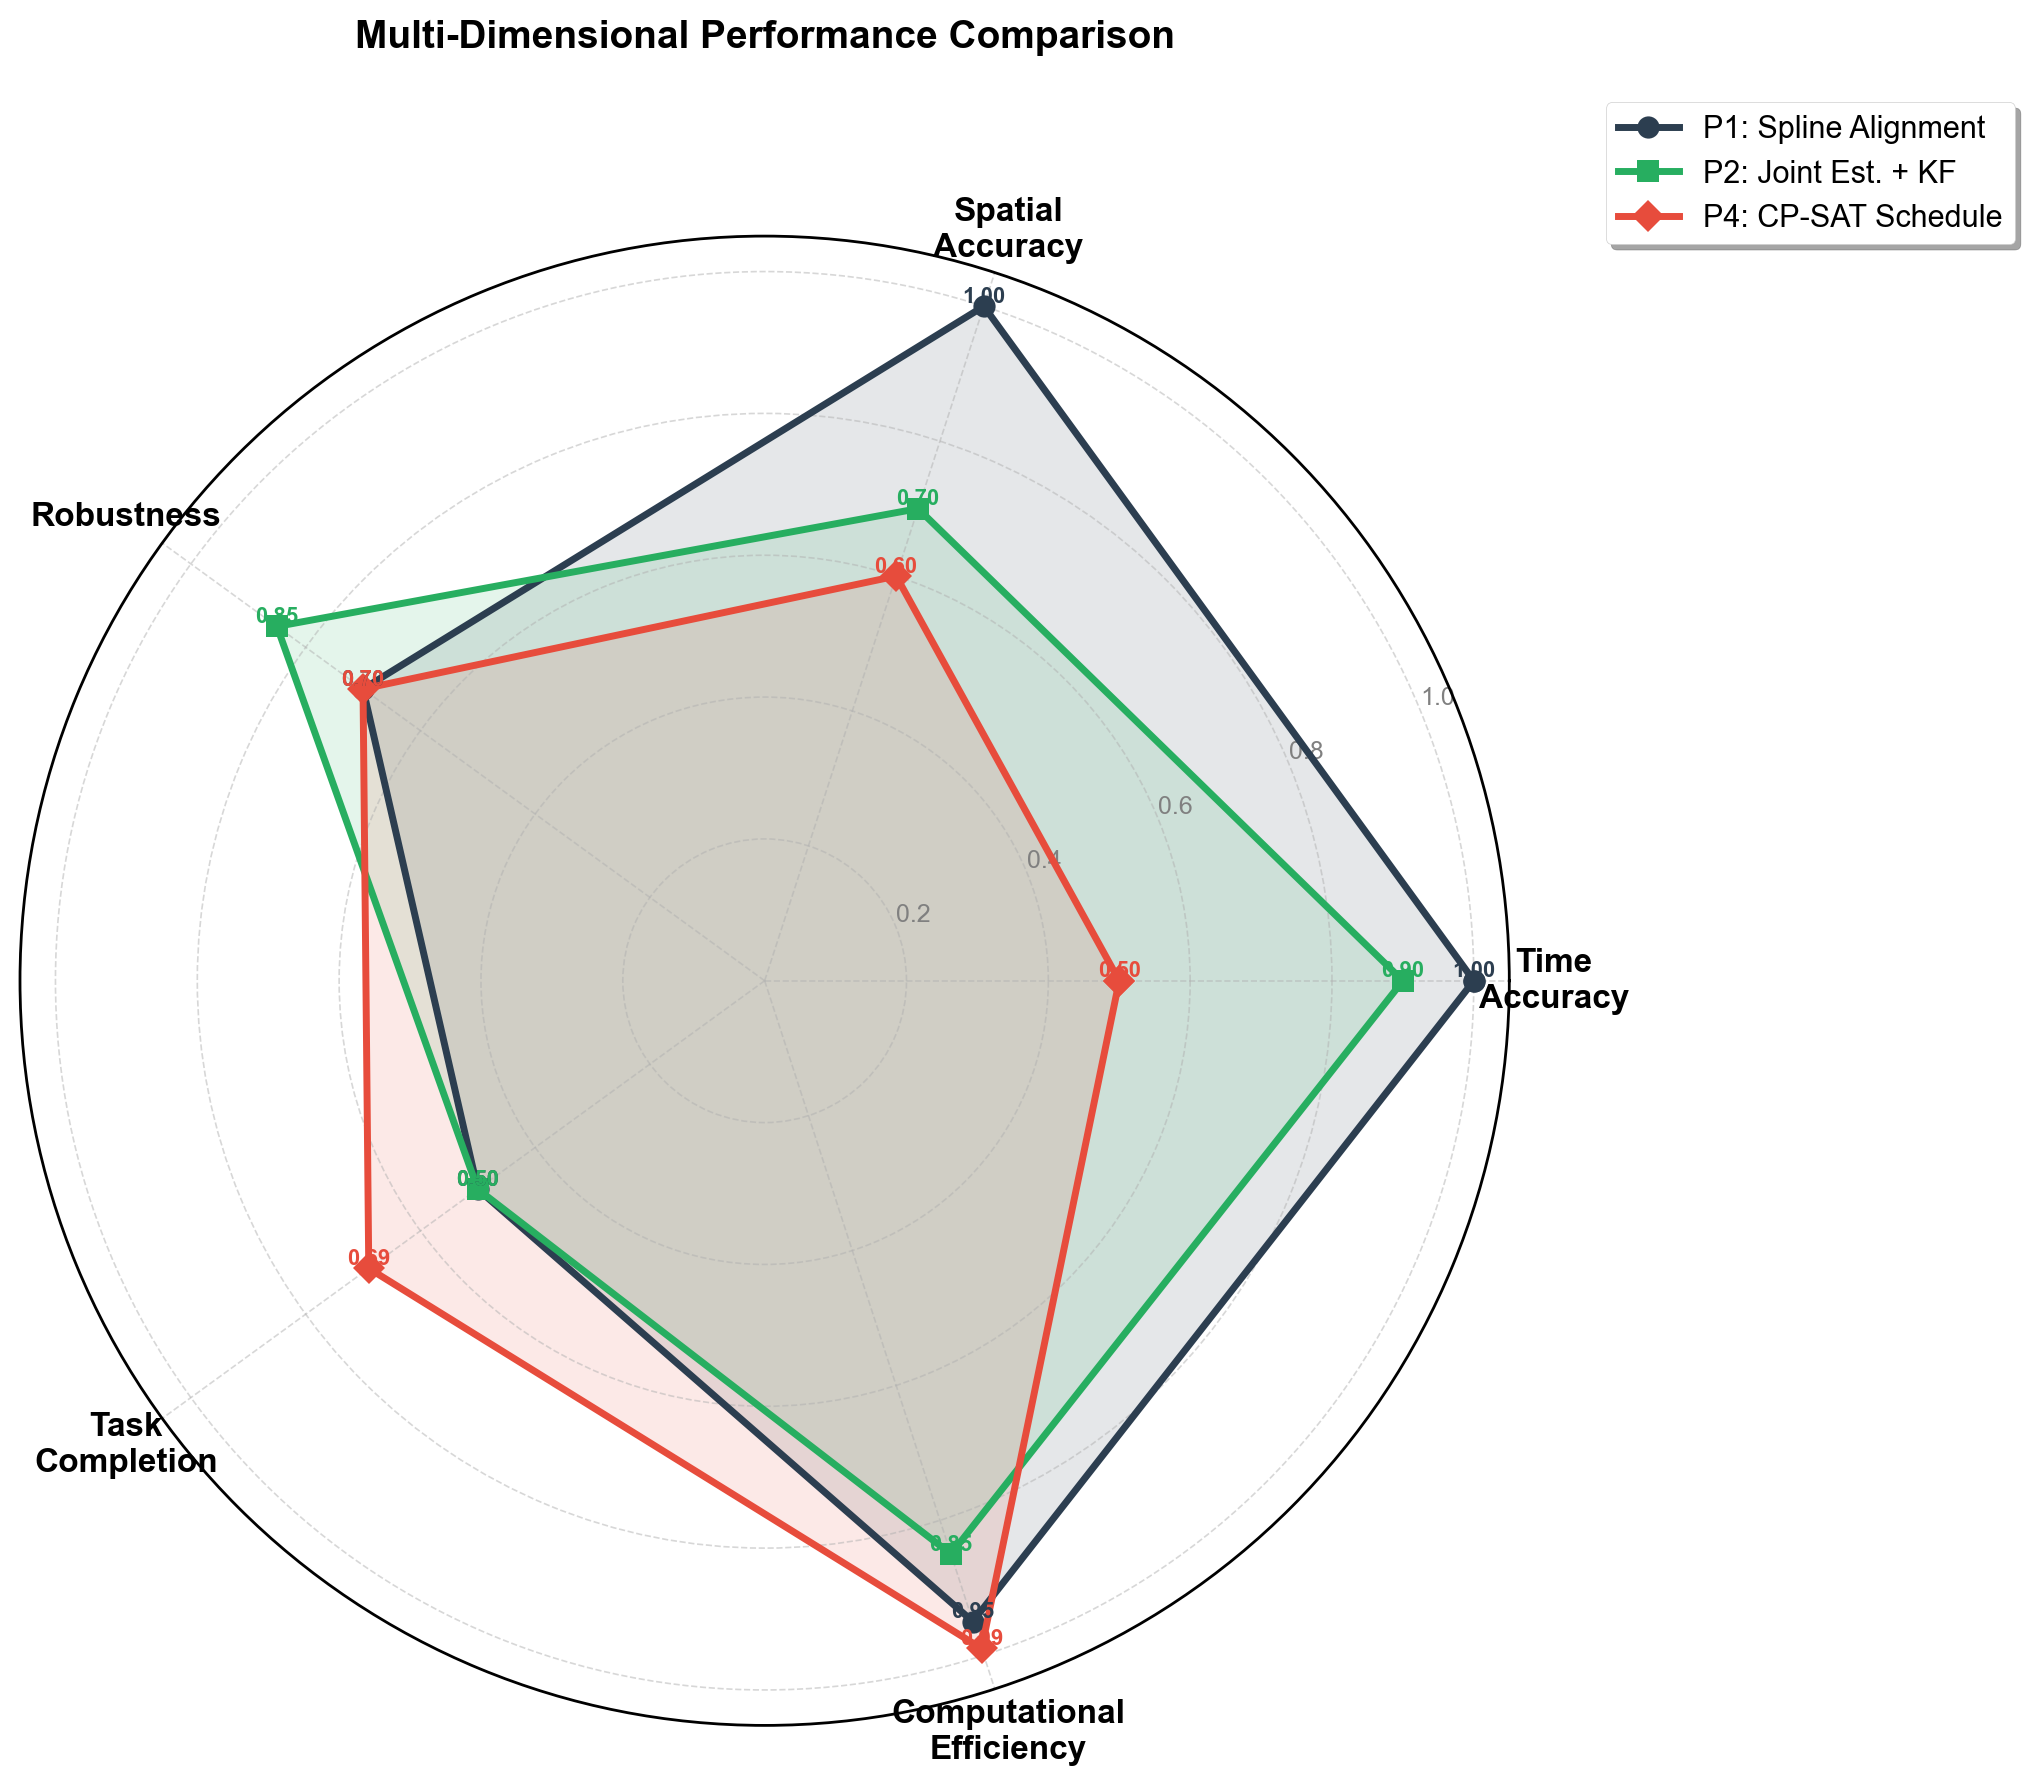
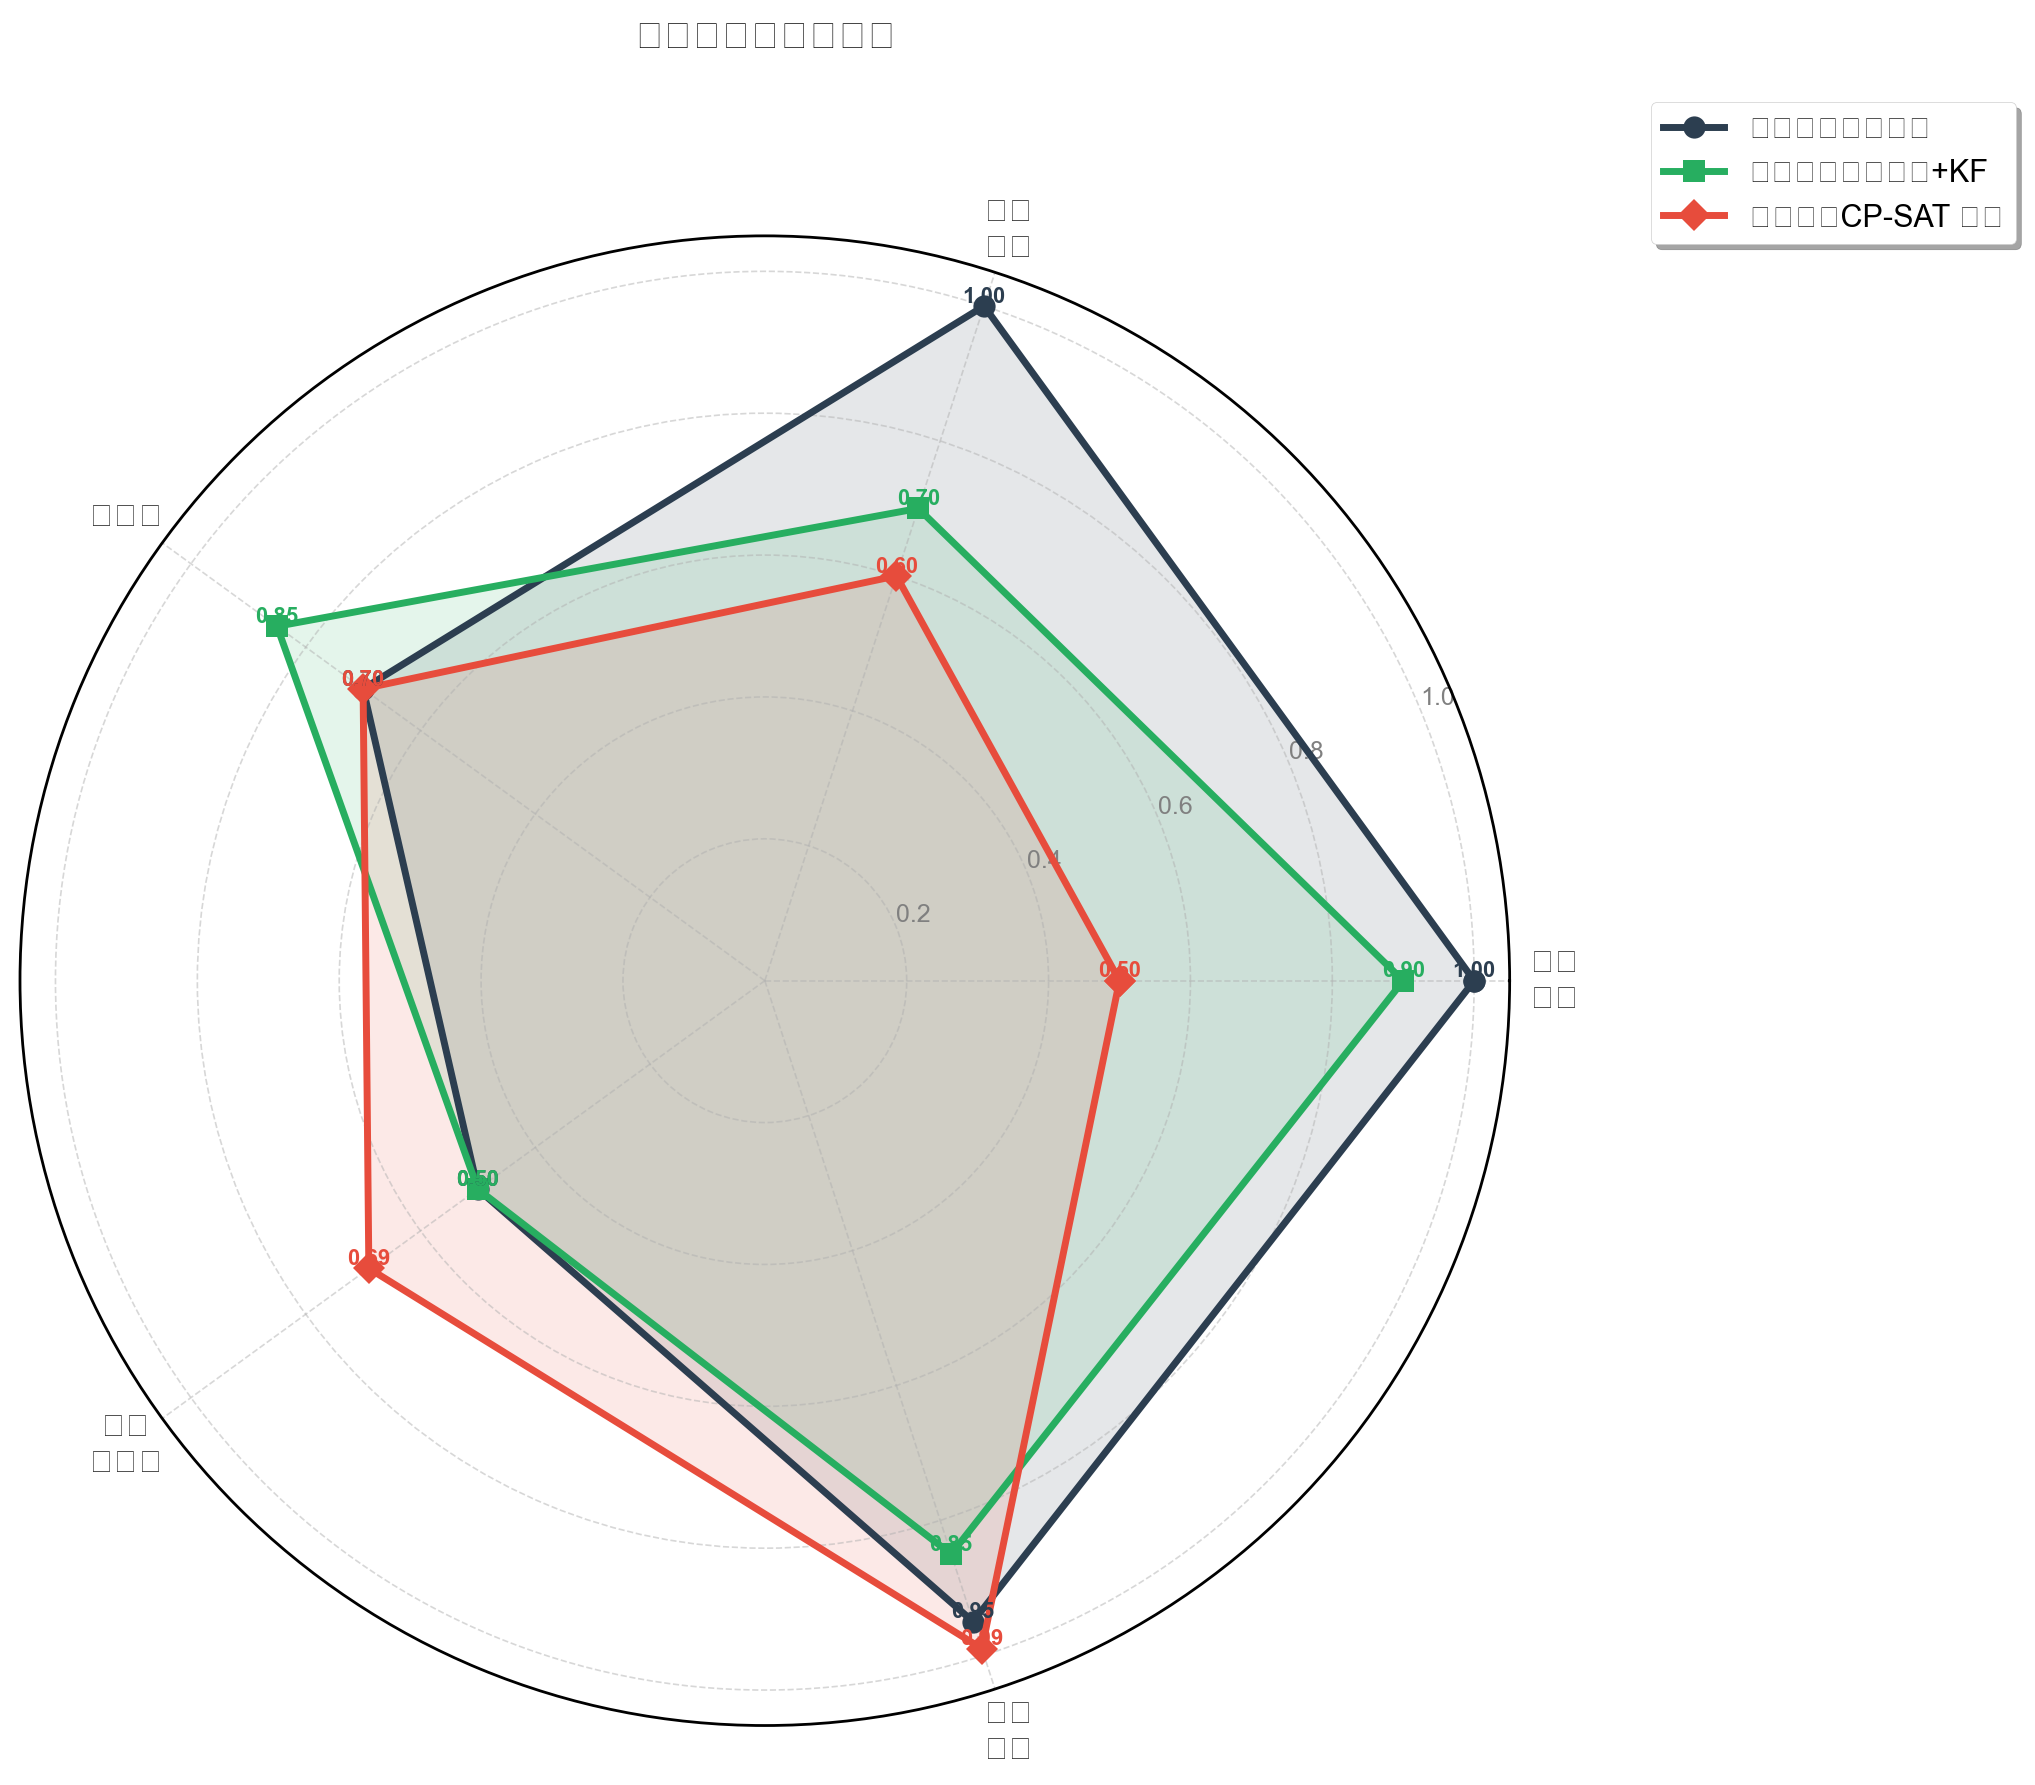
fix(paper+figs): 流程图修正 + 热力图/雷达图中文化 → final-v18 (30页)
- 修复问题二流程图: 删除错误的"粗搜"步骤, 改为正确的样条→联合估计→校正→KF
- 热力图中文化: Method→方式, Attachment→附件, 配色改为Blues(更高级)
- 雷达图中文化: 五维度/方法名全部中文
- fig_method_flowchart.png 重新生成

diff --git a/workspace/xupt-2026-b/code/visualization/fig_global.py b/workspace/xupt-2026-b/code/visualization/fig_global.py
@@ -170,53 +170,40 @@ def generate_flowchart():
 
 
 def generate_noise_heatmap():
-    """
-    Figure 2: Noise Level Heatmap
-    3x2 matrix showing observation noise across attachments and methods
-    """
-    # Data: noise levels (m) from EDA report
+    """噪声热力图（中文版，高级感配色）"""
     data = np.array([
-        [0.0000, 0.0000],  # Attachment 1
-        [0.8239, 0.7966],  # Attachment 2
-        [4.1674, 2.8973]   # Attachment 3
+        [0.0000, 0.0000],
+        [0.8239, 0.7966],
+        [4.1674, 2.8973]
     ])
 
-    fig, ax = plt.subplots(figsize=(8, 5), dpi=DPI)
+    fig, ax = plt.subplots(figsize=(7, 4.5), dpi=DPI)
 
-    # Create heatmap
-    im = ax.imshow(data, cmap='YlOrRd', aspect='auto', vmin=0, vmax=4.5)
+    im = ax.imshow(data, cmap='Blues', aspect='auto', vmin=0, vmax=5.0)
 
-    # Set ticks and labels
     ax.set_xticks(np.arange(2))
     ax.set_yticks(np.arange(3))
-    ax.set_xticklabels(['Method 1', 'Method 2'], fontsize=11)
-    ax.set_yticklabels(['Attachment 1', 'Attachment 2', 'Attachment 3'], fontsize=11)
+    ax.set_xticklabels(['方式 1 (4 Hz)', '方式 2 (5 Hz)'], fontsize=11)
+    ax.set_yticklabels(['附件 1（无噪声）', '附件 2（含噪声）', '附件 3（真实数据）'], fontsize=11)
 
-    # Rotate x labels
-    plt.setp(ax.get_xticklabels(), rotation=0, ha="center")
-
-    # Add colorbar
     cbar = plt.colorbar(im, ax=ax, fraction=0.046, pad=0.04)
-    cbar.set_label('Noise Level σ (m)', rotation=270, labelpad=20, fontsize=11)
+    cbar.set_label('噪声水平 σ (m)', rotation=270, labelpad=18, fontsize=11)
 
-    # Annotate cells with values
     for i in range(3):
         for j in range(2):
-            text = ax.text(j, i, f'{data[i, j]:.4f}',
-                          ha="center", va="center", color="black",
-                          fontsize=10, fontweight='bold')
+            color = 'white' if data[i, j] > 2.5 else 'black'
+            ax.text(j, i, f'{data[i, j]:.2f} m',
+                    ha="center", va="center", color=color,
+                    fontsize=12, fontweight='bold')
 
-    # Add grid
     ax.set_xticks(np.arange(2) - 0.5, minor=True)
     ax.set_yticks(np.arange(3) - 0.5, minor=True)
-    ax.grid(which="minor", color="white", linestyle='-', linewidth=2)
+    ax.grid(which="minor", color="white", linestyle='-', linewidth=3)
     ax.tick_params(which="minor", size=0)
 
-    # Title and labels
-    ax.set_xlabel('Observation Method', fontsize=12, fontweight='bold')
-    ax.set_ylabel('Data Source', fontsize=12, fontweight='bold')
-    plt.title('Observation Noise Level Across Attachments',
-              fontsize=13, fontweight='bold', pad=15)
+    ax.set_xlabel('定位方式', fontsize=12)
+    ax.set_ylabel('数据来源', fontsize=12)
+    ax.set_title('三份附件观测噪声水平对比', fontsize=13, fontweight='bold', pad=12)
 
     plt.tight_layout()
     output_path = OUTPUT_DIR / "fig_noise_heatmap.png"
@@ -226,15 +213,15 @@ def generate_noise_heatmap():
 
 
 def generate_radar_chart():
-    """Radar Chart — enhanced version with larger fonts and value annotations"""
-    categories = ['Time\nAccuracy', 'Spatial\nAccuracy', 'Robustness',
-                  'Task\nCompletion', 'Computational\nEfficiency']
+    """雷达图（中文版）"""
+    categories = ['时间\n精度', '空间\n精度', '鲁棒性',
+                  '任务\n完成度', '计算\n效率']
     N = len(categories)
 
     data = {
-        'P1: Spline Alignment': [1.0, 1.0, 0.7, 0.5, 0.95],
-        'P2: Joint Est. + KF':  [0.9, 0.7, 0.85, 0.5, 0.85],
-        'P4: CP-SAT Schedule':  [0.5, 0.6, 0.7, 0.69, 0.99],
+        '问题一：样条对齐': [1.0, 1.0, 0.7, 0.5, 0.95],
+        '问题二：联合估计+KF': [0.9, 0.7, 0.85, 0.5, 0.85],
+        '问题四：CP-SAT 调度': [0.5, 0.6, 0.7, 0.69, 0.99],
     }
 
     angles = np.linspace(0, 2 * np.pi, N, endpoint=False).tolist()
@@ -266,7 +253,7 @@ def generate_radar_chart():
     ax.legend(loc='upper right', bbox_to_anchor=(1.35, 1.1), fontsize=11,
               frameon=True, shadow=True, fancybox=True)
 
-    plt.title('Multi-Dimensional Performance Comparison',
+    plt.title('多维度性能综合评价',
               fontsize=14, fontweight='bold', pad=25, y=1.08)
 
     plt.tight_layout()

diff --git a/workspace/xupt-2026-b/sections/06_model2.tex b/workspace/xupt-2026-b/sections/06_model2.tex
@@ -81,10 +81,10 @@ $q_a \leftarrow 8$\,m/s$^2$ \tcp*{过程噪声强度}
         arr/.style={-Stealth, thick, black!70}]
 
         \node[io] (in) {两路含噪声数据（$\sigma \approx 0.8$\,m）};
-        \node[sbox, below=of in] (s1) {粗搜 $\Delta\tau$（$\pm 50$\,s，步长 0.5\,s）};
+        \node[sbox, below=of in] (s1) {构建三次样条 $S_1(t)$, $S_2(t)$};
         \node[sbox, below=of s1] (s2) {联合估计 $(\Delta\tau, \Delta x, \Delta y)$ — Nelder-Mead};
-        \node[sbox, below=of s2] (s3) {偏差校正：方式2 时间 $+\Delta\tau$，空间 $-(\Delta x, \Delta y)$};
-        \node[sbox, below=of s3] (s4) {异步卡尔曼滤波（6 维常加速度模型）};
+        \node[sbox, below=of s2] (s3) {偏差校正：时间 $+\Delta\tau$，空间 $-(\Delta x, \Delta y)$};
+        \node[sbox, below=of s3] (s4) {合并两路按时间排序 $\to$ 异步 KF 更新};
         \node[io, below=of s4] (out) {10\,Hz 融合轨迹 8513 点};
 
         \draw[arr] (in) -- (s1);
@@ -94,7 +94,7 @@ $q_a \leftarrow 8$\,m/s$^2$ \tcp*{过程噪声强度}
         \draw[arr] (s4) -- (out);
 
         \node[param, right=0.6cm of s2] {$\Delta\tau=-48.44$, $\Delta x=-3.44$, $\Delta y=1.81$};
-        \node[param, right=0.6cm of s4] {$q_a = 8$\,m/s$^2$, $R_1=0.64$, $R_2=0.64$};
+        \node[param, right=0.6cm of s4] {6 维状态, $q_a = 8$\,m/s$^2$};
     \end{tikzpicture}
     \caption{问题二求解流程}
     \label{fig:flow_p2}